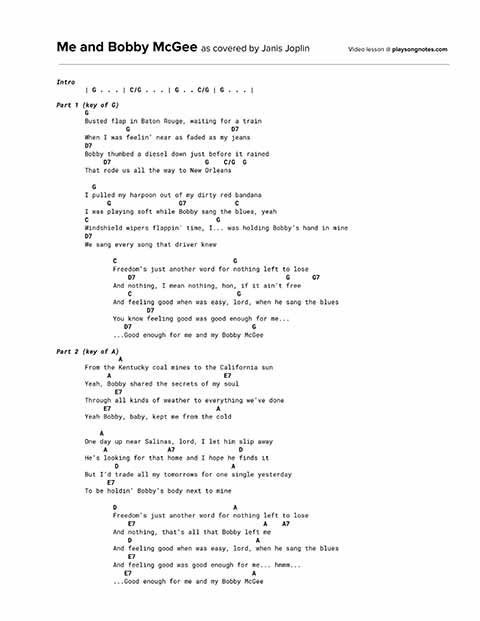
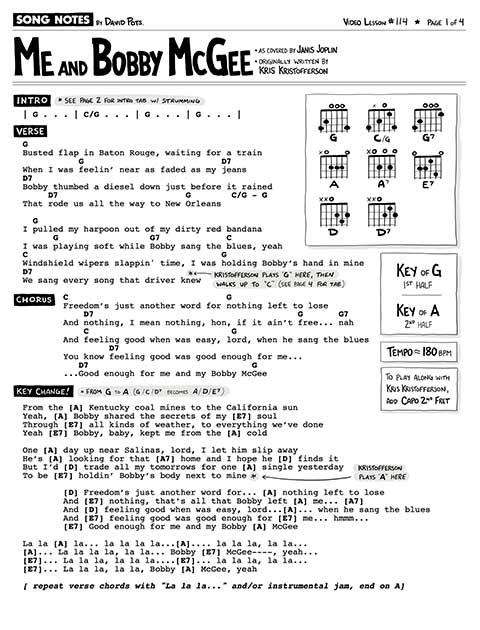
Adds 114

Changed region(s): [[0.0312, 0.0, 0.9688, 0.9485]]

diff --git a/_lessons/114 [Janis Joplin] Me and Bobby McGee.md b/_lessons/114 [Janis Joplin] Me and Bobby McGee.md
@@ -1,7 +1,7 @@
 ---
 layout: song
 
-title: '"Me and Bobby McGee" by Janis Joplin'
+title: '"Me and Bobby McGee" by Janis Joplin / Kris Kristofferson'
 song_title: Me and Bobby McGee
 artist: Janis Joplin
 year: 1971
@@ -12,8 +12,9 @@ yt_video_id: SSv0ZxZQnxs
 slug: "114"
 redirect_from:
   - /songs/janis-joplin-me-and-bobby-mcgee/
-pdf_version: copyright
-pdf_numpages: 2
+pdf_version: musicnotes
+pdf_numpages: 4
+musicnotes_url: https://www.musicnotes.com/l/CTtM8
 patreon_lesson_available: true
 patreon_lesson_url: https://www.patreon.com/posts/27233343
 ---
@@ -41,90 +42,3 @@ Video timestamps:
 - 4:49 Strumming pattern
 - 6:07 Changing keys from G to A
 - 9:33 Playthrough (complete)
-
-
-
-
-
-## Chords needed
-
-Note, the Janis Joplin version of this song changes key halfway through the song (from G to A). Chords for both keys are shown below.
-
-    E –––3––––1––––0––––2–––– ––3––    E –––0––––0––––2––––0––––
-    B –––0––––0––––1––––1–––– ––1––    B –––2––––2––––3––––3––––
-    G –––0––––0––––0––––2–––– ––0––    G –––2––––0––––2––––1––––
-    D –––0––––0––––2––––0–––– ––2––    D –––2––––2––––0––––2––––
-    A –––2––––2––––3––––––––– ––x––    A –––0––––0–––––––––2––––
-    E –––3––––3–––––––––––––– ––3––    E ––––––––––––––––––0––––
-         G    G7   C    D7     C/G           A    A7   D    E7   
-
-## Strumming pattern
-
-Here's the strum pattern I use for this song. On the first down strum I'll emphasize the bassiest string of the chord (or, if not the single bass-most string, the bassiest 2-3 strings).
-
-    1  +  2  +  3  +  4  +  
-    D     D        U  D  U
-
-## Lyrics w/ Chords
-
-    G
-    Busted flap in Baton Rouge, waiting for a train
-               G                           D7
-    When I was feelin’ near as faded as my jeans
-    D7                       
-    Bobby thumbed a diesel down just before it rained
-         D7                         G    C/G  G
-    That rode us all the way to New Orleans
-
-      G   
-    I pulled my harpoon out of my dirty red bandana
-          G                  G7             C
-    I was playing soft while Bobby sang the blues, yeah
-    C                                  G
-    Windshield wipers flappin' time, I... was holding Bobby’s hand in mine
-    D7
-    We sang every song that driver knew
-
-    C                               G
-    Freedom’s just another word for nothing left to lose
-        D7                                        G      G7
-    And nothing, I mean nothing, hon, if it ain’t free
-        C                            G
-    And feeling good when was easy, lord, when he sang the blues
-             D7                              
-    You know feeling good was good enough for me...
-       D7                                G
-    ...Good enough for me and my Bobby McGee
-
-             A
-    From the Kentucky coal mines to the California sun
-          A                              E7
-    Yeah, Bobby shared the secrets of my soul
-            E7
-    Through all kinds of weather to everything we’ve done
-         E7                            A
-    Yeah Bobby, baby, kept me from the cold
-
-        A
-    One day up near Salinas, lord, I let him slip away
-         A                A7                 D
-    He’s looking for that home and I hope he finds it
-            D                              A
-    But I’d trade all my tomorrows for one single yesterday
-          E7
-    To be holdin’ Bobby’s body next to mine
-
-    D                               A
-    Freedom’s just another word for nothing left to lose
-        E7                                  A    A7
-    And nothing, that’s all that Bobby left me
-        D                                 A
-    And feeling good when was easy, lord, when he sang the blues
-        E7   
-    And feeling good was good enough for me... hmmm...
-       E7                                A
-    ...Good enough for me and my Bobby McGee
-
-## Good luck!
-
-Let me know if you have questions. I hope this was helpful.

diff --git a/backlog.md b/backlog.md
@@ -18,6 +18,7 @@ permalink: /backlog/
 
 Sheet music for the following songs are all available for purchase at Musicnotes.com. Each arrangement is officially licensed & legal, and also uses my latest sheet music formatting.
 
+    Feb 8  - Me and Bobby McGee
     Feb 7  - Whitehouse Road
     Feb 1  - I've Been Everywhere
     Jan 31 - Tuesday's Gone
@@ -50,7 +51,6 @@ Sheet music for the following songs are all available for purchase at Musicnotes
 <h3>6+ requests:</h3>
 
     Stairway to Heaven          XXXXXXXXXXXXXXXXXXXXXX
-    Me and Bobby McGee •        XXXXXXXXXX
     Like a Rolling Stone        XXXXXXXXX
     Lola                        XXXXXXXXX
     Sweet Child o Mine          XXXXXXXXX
